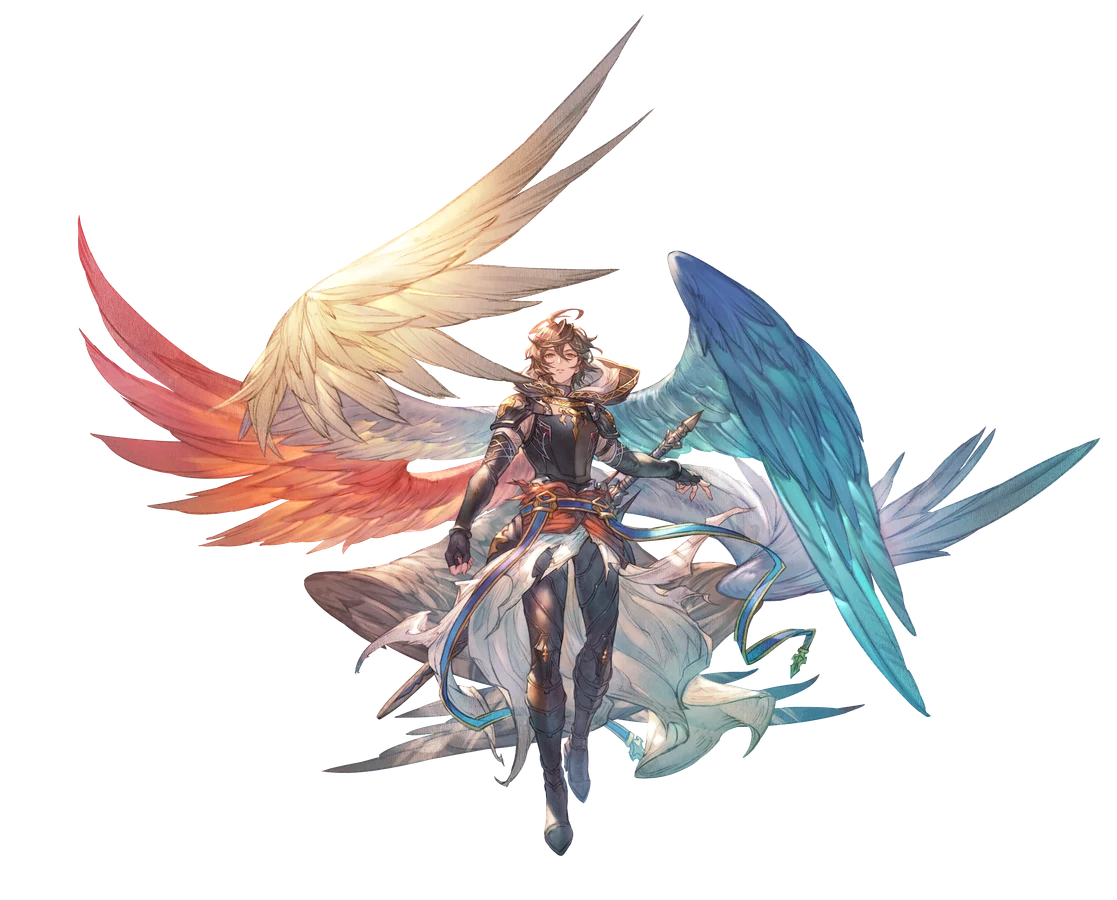
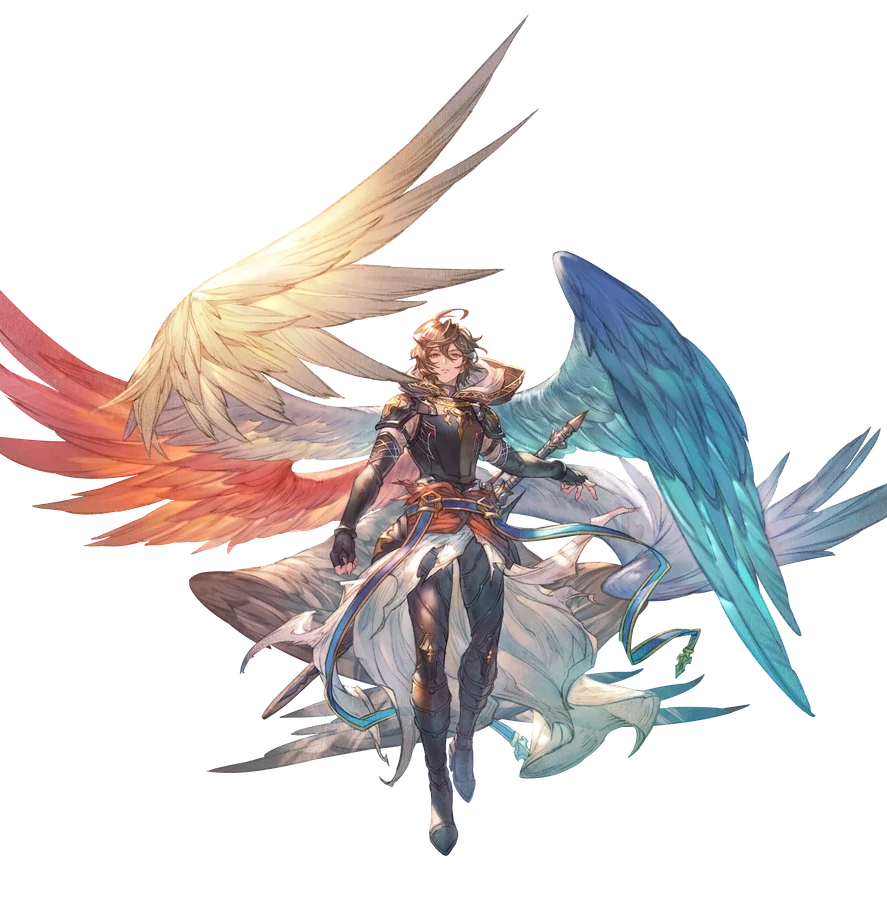
Rework portraits: full-body art on a masked full-height backdrop

Changed region(s): [[0.0, 0.0311, 1.0, 0.9644]]

diff --git a/src/card/Card.tsx b/src/card/Card.tsx
@@ -21,7 +21,6 @@ import {
   bonusValueText,
   characterById,
   characterCatalog,
-  portraitUrl,
   summonById,
   traitName,
   resolveWeapon,
@@ -30,6 +29,7 @@ import {
 } from "../data";
 import { nameTracking } from "./name-tracking";
 import { SkillsSection } from "./SkillsSection";
+import { Portrait } from "./Portrait";
 import { LvlBadge } from "./LvlBadge";
 import { LvlDisplay } from "./LvlDisplay";
 import { LvlWeapon } from "./LvlWeapon";
@@ -37,7 +37,6 @@ import {
   CARD_H,
   CARD_LAYOUT,
   CARD_W,
-  columnWidths,
   gridColumns,
   soft,
   softFloor,
@@ -76,9 +75,6 @@ const STYLE_RANK_LABELS: Record<StyleRank, string> = {
   r3: "Style Rank 3",
   ex: "Style Rank EX",
 };
-
-/** The portrait's share of the card height; it bleeds past the inset. */
-const PORTRAIT_H = "70%";
 
 /** Weapon stat plate Icon inset */
 const STAT_PLATE_ICON_INSET = 3;
@@ -303,7 +299,6 @@ export function Card({
     build.wrightstone?.sub2 ?? null,
   ];
 
-  const [portraitW] = columnWidths(layout);
   const colGap = soft("colGap", layout.slack);
   const rankGap = soft("rankGap", layout.slack);
   const rankMt = soft("rankMt", layout.slack);
@@ -370,20 +365,7 @@ export function Card({
     >
       <ParchmentBackdrop />
 
-      {/* The one declared bleed: art reaches the card's real edge, not the inset. */}
-      <div
-        className="absolute top-0 left-0 z-1"
-        style={{ width: layout.inset + portraitW, height: PORTRAIT_H }}
-      >
-        <div
-          className="portrait absolute inset-0 bg-size-[auto_115%] bg-top"
-          style={{
-            backgroundImage: `url('${portraitUrl(build.characterId)}')`,
-            backgroundPosition: `center ${character?.portraitY ?? 20}%`,
-          }}
-        />
-        <LvlBadge level={CHARACTER_LEVEL} size={189} inset={14} />
-      </div>
+      <Portrait characterId={build.characterId} layout={layout} />
 
       <div
         className="grid"
@@ -665,6 +647,8 @@ export function Card({
           </div>
         </div>
       </div>
+      {/* UI layer, above the portrait backdrop: the level badge in the corner. */}
+      <LvlBadge level={CHARACTER_LEVEL} size={189} inset={14} />
       <div className="text-dim absolute right-4 bottom-2 z-5 text-base tracking-wider">
         gbfr-sharecard · ddk-epic.github.io/gbfr-sharecard
       </div>

diff --git a/src/card/Portrait.tsx b/src/card/Portrait.tsx
@@ -1,0 +1,53 @@
+import type { CharacterId } from "../domain/build";
+import { characterById, portraitUrl } from "../data";
+import { columnWidths, type CardLayout } from "./layout";
+
+/**
+ * The full-height backdrop layer: the character art, spanning column 1 top to
+ * bottom behind every section (z-0), bleeding to the card's real edges.
+ */
+const PORTRAIT_PAD = 20;
+const PORTRAIT_BLEED_LEFT = 10;
+const PORTRAIT_BLEED_RIGHT = 130;
+/** Opacity the left/right fade reaches at the end of its bleed (0 = fully gone). */
+const PORTRAIT_BLEED_OPACITY = 0;
+/** Bottom fade: solid down to this line (%), then to this opacity at the edge. */
+const PORTRAIT_FADE_START = 65;
+const PORTRAIT_FADE_OPACITY = 0.3;
+/** Global art zoom: background height as a % of the box. */
+const PORTRAIT_SCALE = 135;
+
+export function Portrait({
+  characterId,
+  layout,
+}: {
+  characterId: CharacterId;
+  layout: CardLayout;
+}) {
+  const character = characterById.get(characterId);
+  const [portraitW] = columnWidths(layout);
+  const seam = layout.inset + portraitW;
+  const artW = seam + 2 * PORTRAIT_BLEED_RIGHT;
+  const bleedEnd = `rgba(0,0,0,${PORTRAIT_BLEED_OPACITY})`;
+  const maskH = `linear-gradient(to right, ${bleedEnd} ${PORTRAIT_BLEED_RIGHT - PORTRAIT_BLEED_LEFT}px, #000 ${PORTRAIT_PAD + PORTRAIT_BLEED_RIGHT}px, #000 ${seam - PORTRAIT_PAD + PORTRAIT_BLEED_RIGHT}px, ${bleedEnd} ${artW}px)`;
+  const maskV = `linear-gradient(#000 ${PORTRAIT_FADE_START}%, rgba(0,0,0,${PORTRAIT_FADE_OPACITY}) 100%)`;
+
+  // Per-character offsets off centre.
+  const portraitX = character?.portraitX ?? 0;
+  const portraitY = character?.portraitY ?? 0;
+
+  return (
+    <div
+      className="portrait absolute top-0 z-0"
+      style={{
+        left: -PORTRAIT_BLEED_RIGHT,
+        width: artW,
+        height: "100%",
+        backgroundImage: `url('${portraitUrl(characterId)}')`,
+        backgroundPosition: `calc(50% + ${portraitX}px) calc(50% + ${portraitY}px)`,
+        backgroundSize: `auto ${PORTRAIT_SCALE}%`,
+        maskImage: `${maskH}, ${maskV}`,
+      }}
+    />
+  );
+}

diff --git a/src/styles/art.css b/src/styles/art.css
@@ -12,9 +12,7 @@
 
 @layer components {
   .portrait {
-    mask-image:
-      linear-gradient(#000 92%, transparent 99%),
-      linear-gradient(90deg, transparent, #000 5%, #000 95%, transparent);
+    /* mask-image is built per-render in Card.tsx (two layers, intersected). */
     mask-composite: intersect;
     -webkit-mask-composite: source-in;
   }

diff --git a/src/domain/catalog.ts b/src/domain/catalog.ts
@@ -20,7 +20,8 @@ export type Character = {
   name: string;
   artId: string;
   portrait: string; // path
-  portraitY: number; // framing y-offset (%; default 20)
+  portraitX: number; // framing x-offset (px off centre)
+  portraitY: number; // framing y-offset (px off centre)
   element: string;
   enabled: boolean;
 };
